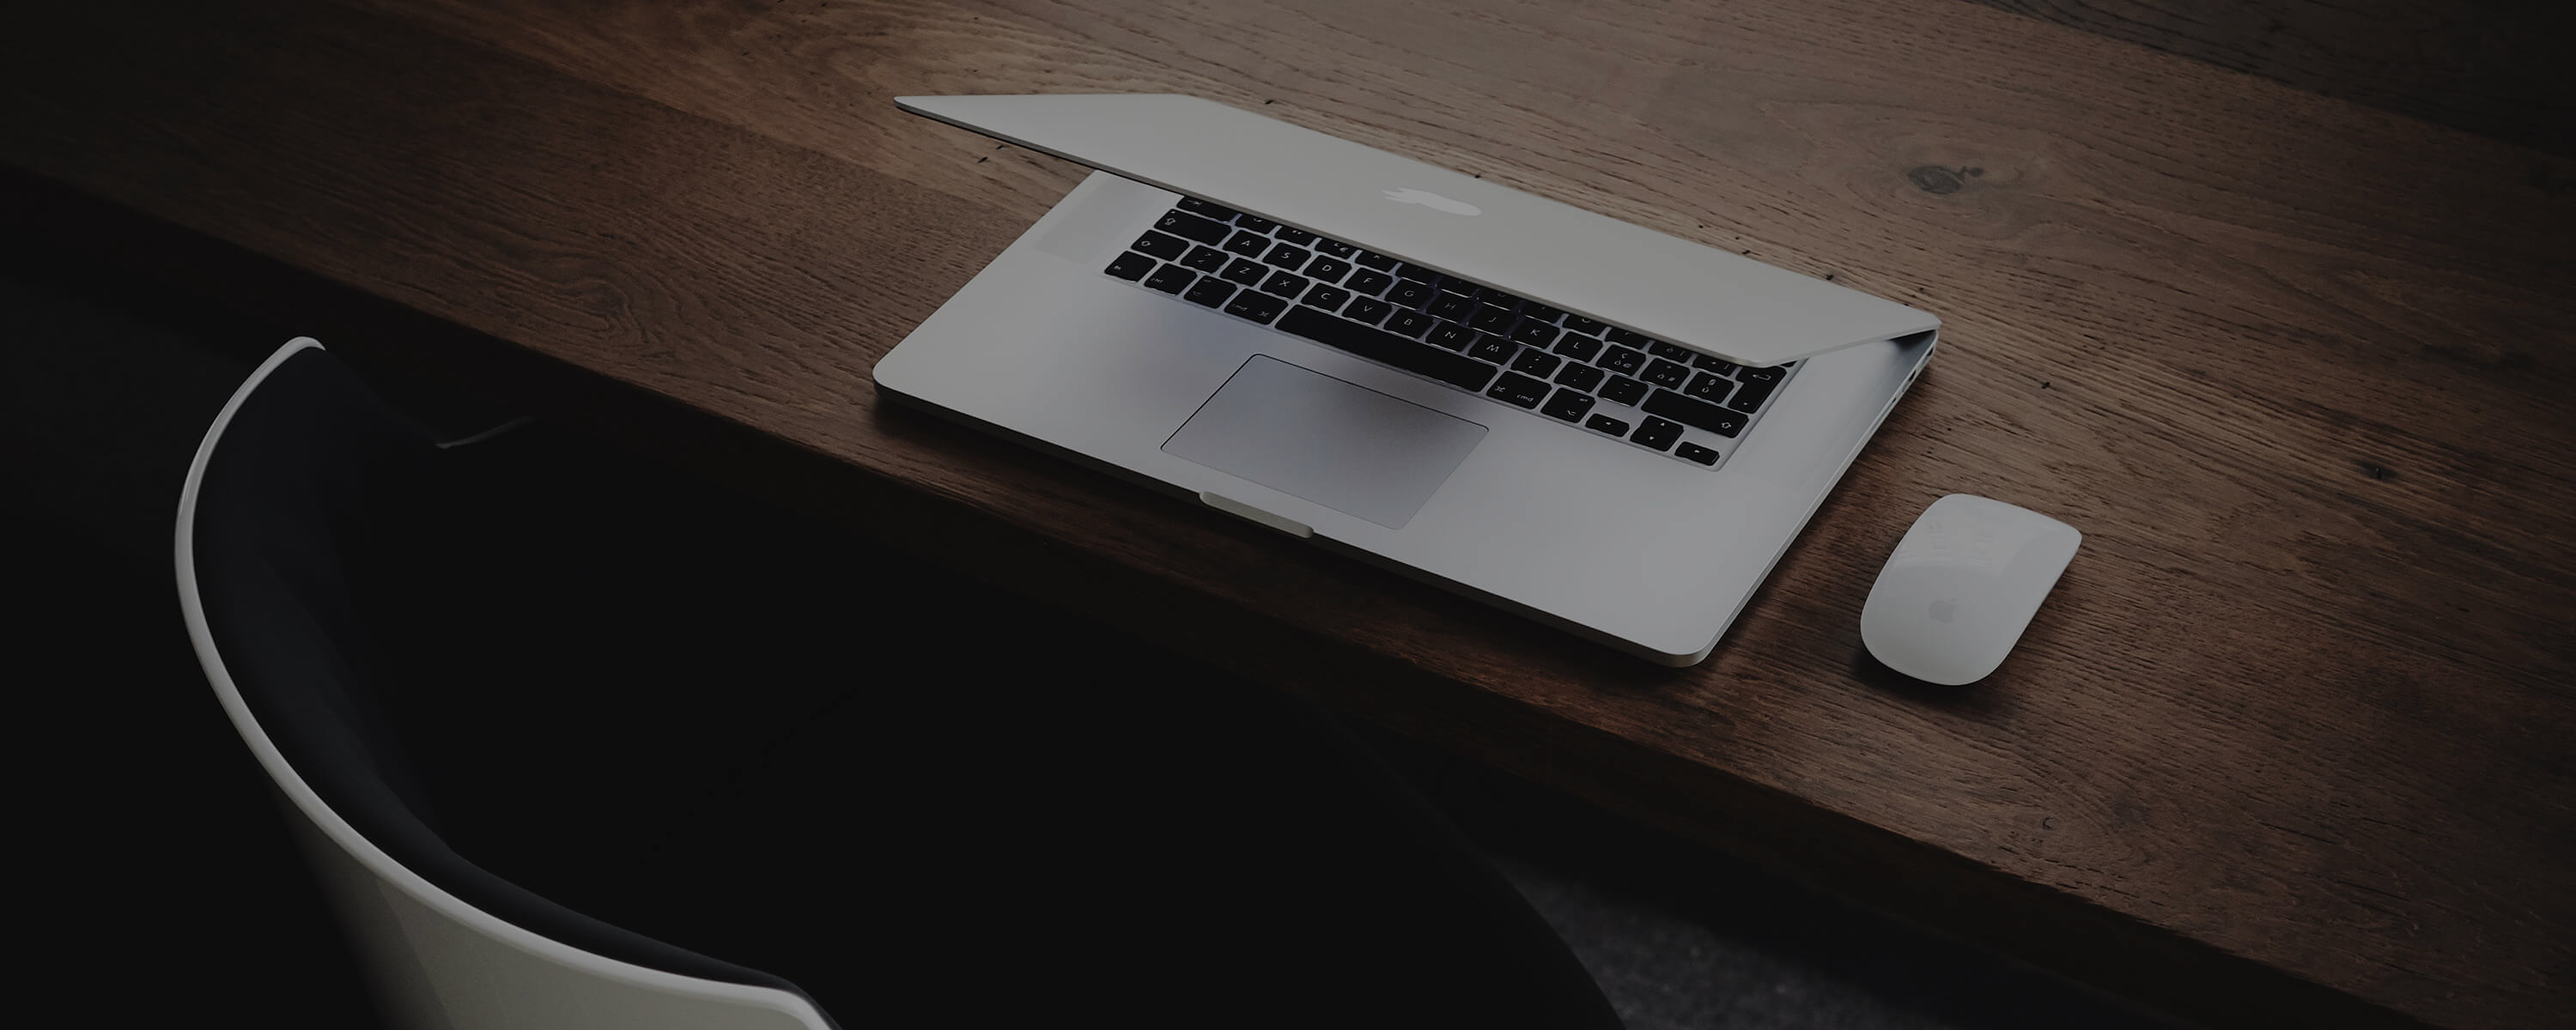
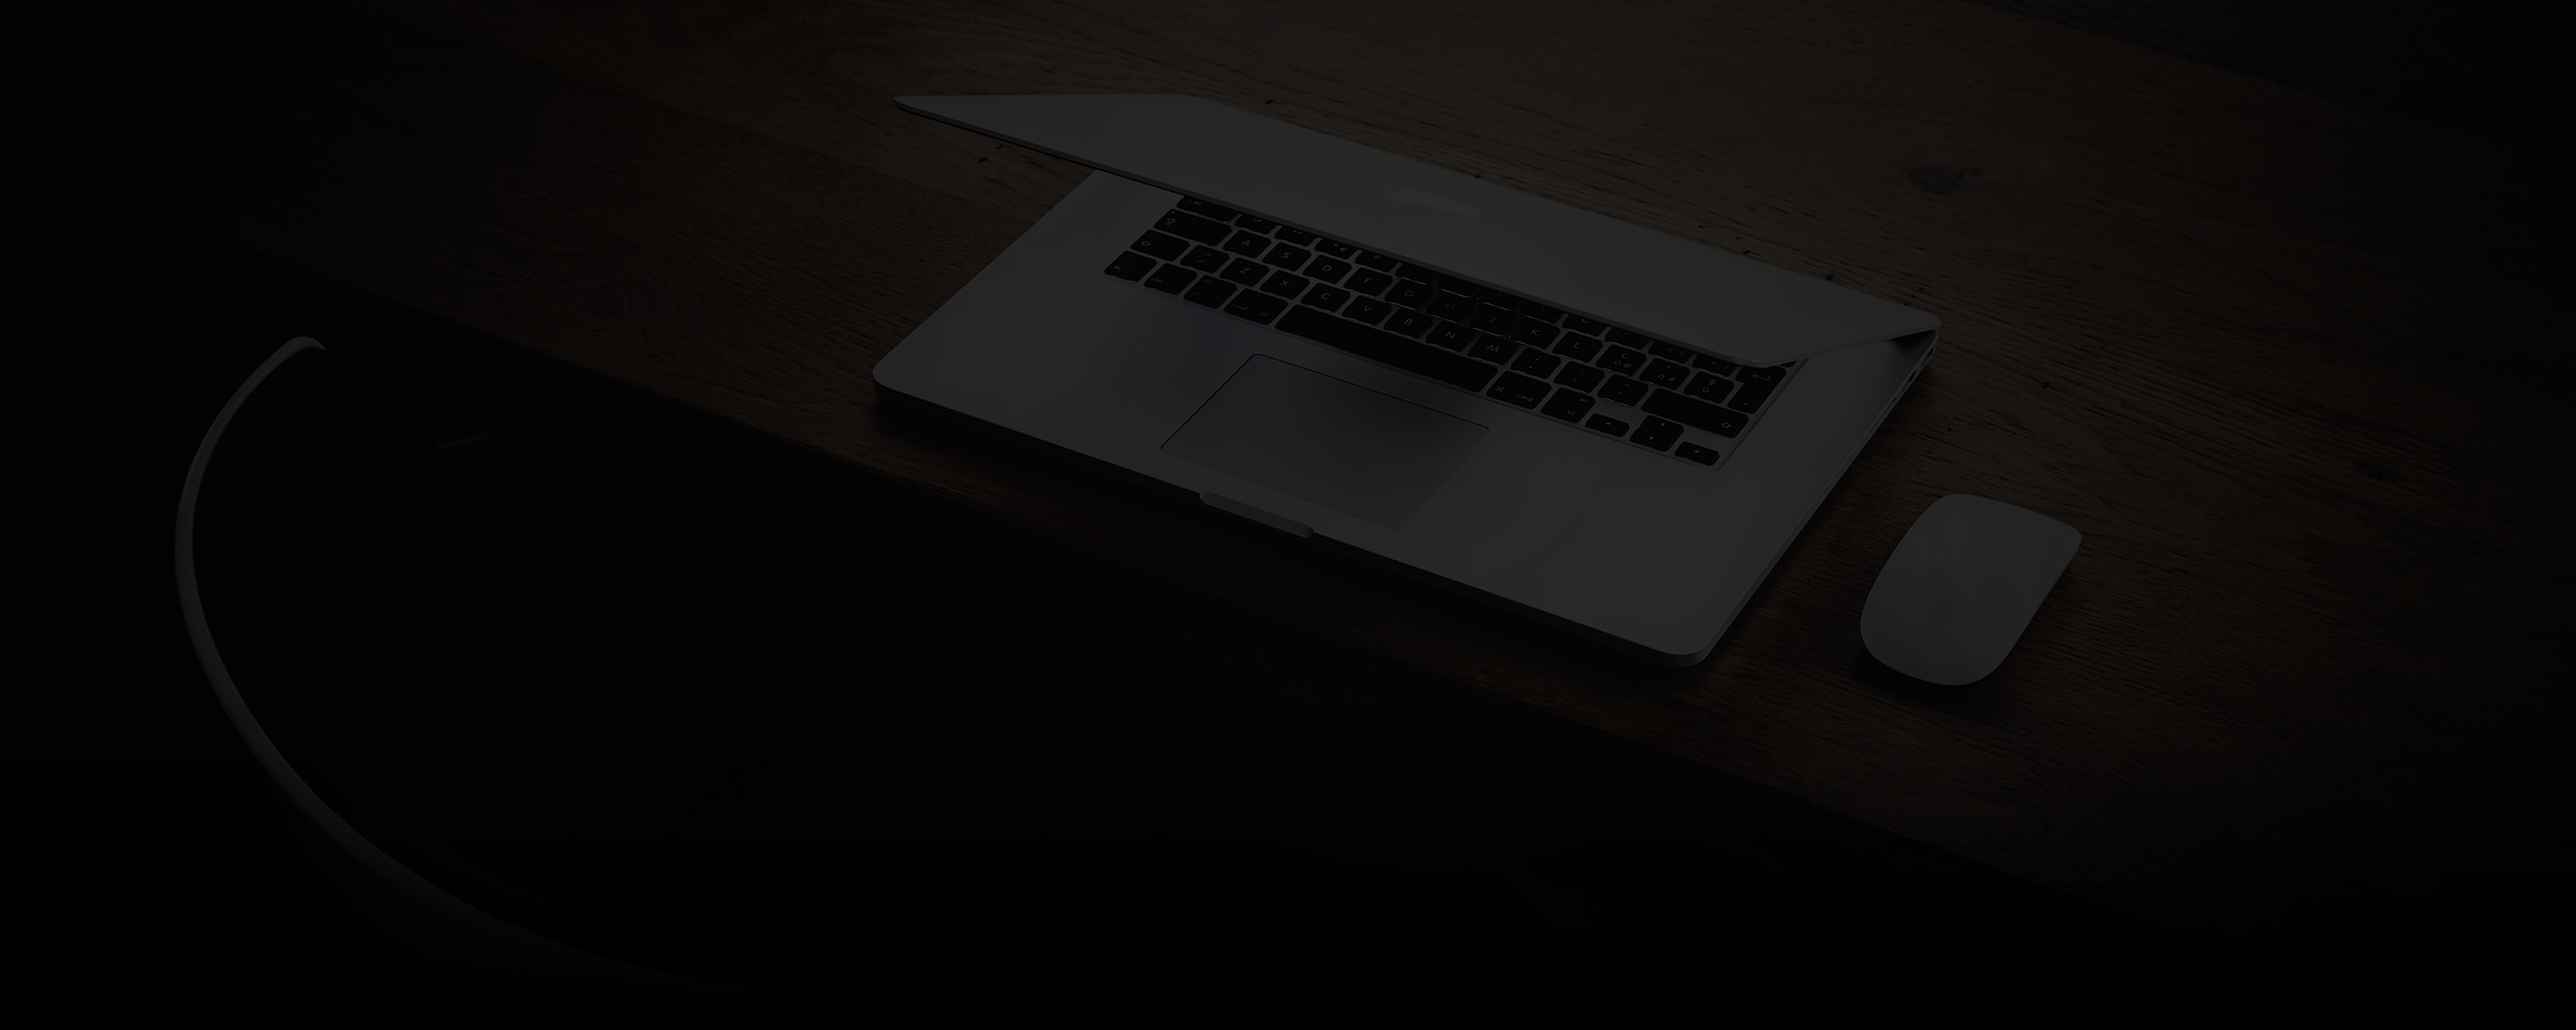
more styling to index page

diff --git a/public/styles/styles.css b/public/styles/styles.css
@@ -1,3 +1,63 @@
+/* Add a black background color to the top navigation */
+.topnav {
+  background-color: #333;
+  overflow: hidden;
+}
+
+/* Style the links inside the navigation bar */
+.topnav a {
+  float: left;
+  display: block;
+  color: #f2f2f2;
+  text-align: center;
+  padding: 14px 16px;
+  text-decoration: none;
+  font-size: 17px;
+}
+
+/* Change the color of links on hover */
+.topnav a:hover {
+  background-color: #ddd;
+  color: black;
+}
+
+/* Add an active class to highlight the current page */
+.active {
+  background-color: #4CAF50;
+  color: white;
+}
+
+/* Hide the link that should open and close the topnav on small screens */
+.topnav .icon {
+  display: none;
+}
+
+/* When the screen is less than 600 pixels wide, hide all links, except for the first one ("Home"). Show the link that contains should open and close the topnav (.icon) */
+@media screen and (max-width: 600px) {
+  .topnav a:not(:first-child) {display: none;}
+  .topnav a.icon {
+    float: right;
+    display: block;
+  }
+}
+
+/* The "responsive" class is added to the topnav with JavaScript when the user clicks on the icon. This class makes the topnav look good on small screens (display the links vertically instead of horizontally) */
+@media screen and (max-width: 600px) {
+  .topnav.responsive {position: relative;}
+  .topnav.responsive a.icon {
+    position: absolute;
+    right: 0;
+    top: 0;
+  }
+  .topnav.responsive a {
+    float: none;
+    display: block;
+    text-align: left;
+  }
+}
+
+
+
 /* LOGIN PAGE */
 html {
   height: 100%;
@@ -32,24 +92,47 @@ body, html {
   background-position: top;
 }
 
-.btn { 
-  font-weight: 700;
-  height: 36px;
+/* Button */
+.btn {
+  display: inline-block;
+  font-family: "Nunito Sans", sans-serif;
+  font-weight: 600;
+  font-size: 17px;
+  text-transform: uppercase;
+  letter-spacing: 2px;
+  padding: 5px 14px 10px;
+  color: #000000;
+  text-align: center;
+  cursor: pointer;
+  -webkit-transition: all 0.3s ease-in-out;
+  transition: all 0.3s ease-in-out;
+  background-color: #b8b8b8;
+  border: .2rem solid #b8b8b8;
 }
 
 #addButton { 
-  font-weight: 400;
+  font-weight: 600;
   font-size: 13px;
   letter-spacing: 0px;
+  padding: 3px;
 }
 
-.logoButtons {
-  width: 100px;
+#loginButton{
+  font-weight: 500;
+  font-size: 10px;
+  background-color: #e50914;
+  border-color: #e50914;
+  color: white;
+  padding: 2px 2px;
 }
 
-#logoButtons {
-  width: 100px;
+.btn:hover {
+  background-color: #e50914;
+  border-color: #e50914;
+  color: #000000;
 }
+
+/* Card */
 
 .card { 
   max-width: 500px;
@@ -63,9 +146,16 @@ body, html {
   border-radius: 5px; /* 5px rounded corners */
 }
 
+.card-img-top{
+  padding-top: 10px;
+  border: solid white 1px;
+  margin-bottom: 5px;
+}
+
 .card-text {
   font-size: 16px;
-  color: white;
+  font-weight: 700;
+  color: red;
 }
 
 .card-title {
@@ -80,9 +170,8 @@ body, html {
 }
 
 .results {
-  background-color: black;
+  background-image: url("/images/sectiongradient.png");
 }
-
 
 #inputEmail { 
   line-height: 2;
@@ -100,19 +189,12 @@ body, html {
   box-sizing: border-box;
 }
 
-.btn-signin { 
-  font-weight: 700;
-  font-size: 17px;
-  height: 40px;
-  border-radius: 3px;
-  border: none;
-}
-
 /* header logo  */
 
 #navIcon { 
   font-size: 45px;
 }
+
 #closeButton { 
   padding: 20px;
   font-size: 80px;
@@ -182,17 +264,6 @@ width: 80px;
    margin: auto;
 }
 
-/* contact social */
-.contact-social {
-  display: inline-block;
-  font-size: 45px;
-  margin-bottom: 5px;
-}
-
-.contact-social li {
-  display: inline-block;
-}
-
 /* NEW */
 
 body,
@@ -211,7 +282,7 @@ body {
 }
 
 hr.light {
-  border-color: #fff;
+  border-color: #2e2d35;
   height: 1px;
 }
 
@@ -235,29 +306,6 @@ h6 {
   font-family: "Nunito Sans", sans-serif;
 }
 
-.btn {
-  display: inline-block;
-  font-family: "Nunito Sans", sans-serif;
-  font-weight: 500;
-  font-size: 14px;
-  text-transform: uppercase;
-  letter-spacing: 2px;
-  padding: 8px 18px;
-  color: #000000;
-  text-align: center;
-  cursor: pointer;
-  -webkit-transition: all 0.3s ease-in-out;
-  transition: all 0.3s ease-in-out;
-  background-color: #b8b8b8;
-  border: .2rem solid #b8b8b8;
-}
-
-.btn:hover {
-  background-color: #e50914;
-  border-color: #e50914;
-  color: #000000;
-}
-
 .bg-primary {
   background-color: #e50914 !important;
 }
@@ -268,8 +316,10 @@ h6 {
 
 .text-faded {
   color: rgba(255, 255, 255, 0.7);
-  font-size: 24px;
-  font-weight: 100;
+  font-size: 26px;
+  letter-spacing: 1px;
+  font-weight: 200;
+  font-family: 'Oswald', sans-serif;
 }
 
 section {
@@ -385,9 +435,9 @@ img::-moz-selection {
 
 header.masthead {
   padding-top: 10rem;
+  height: 900px;
   background-color: black;
   margin-bottom: 0px;
-  background-image: url("/public/images/hero-bg-Small.png");
   background-position: center center;
   -webkit-background-size: cover;
   -moz-background-size: cover;
@@ -395,6 +445,10 @@ header.masthead {
   background-size: cover;
 }
 
+.masthead {
+  height: 700px;
+  background-image: url("/images/hero-bg-Small-dark.png")
+}
 
 header.masthead hr {
   margin-top: 30px;
@@ -437,69 +491,6 @@ header.masthead p {
   max-width: 400px;
 }
 
-.portfolio-box {
-  position: relative;
-  display: block;
-  max-width: 650px;
-  margin: 0 auto;
-}
-
-.portfolio-box .portfolio-box-caption {
-  position: absolute;
-  bottom: 0;
-  display: block;
-  width: 100%;
-  height: 100%;
-  text-align: center;
-  opacity: 0;
-  color: #fff;
-  background: rgba(240, 95, 64, 0.9);
-  -webkit-transition: all 0.2s;
-  -moz-transition: all 0.2s;
-  transition: all 0.2s;
-}
-
-.portfolio-box .portfolio-box-caption .portfolio-box-caption-content {
-  position: absolute;
-  top: 50%;
-  width: 100%;
-  transform: translateY(-50%);
-  text-align: center;
-}
-
-.portfolio-box .portfolio-box-caption .portfolio-box-caption-content .project-category,
-.portfolio-box .portfolio-box-caption .portfolio-box-caption-content .project-name {
-  padding: 0 15px;
-  font-family: 'Open Sans', 'Helvetica Neue', Arial, sans-serif;
-}
-
-.portfolio-box .portfolio-box-caption .portfolio-box-caption-content .project-category {
-  font-size: 14px;
-  font-weight: 600;
-  text-transform: uppercase;
-}
-
-.portfolio-box .portfolio-box-caption .portfolio-box-caption-content .project-name {
-  font-size: 18px;
-}
-
-.portfolio-box:hover .portfolio-box-caption {
-  opacity: 1;
-}
-
-.portfolio-box:focus {
-  outline: none;
-}
-
-@media (min-width: 768px) {
-  .portfolio-box .portfolio-box-caption .portfolio-box-caption-content .project-category {
-    font-size: 16px;
-  }
-  .portfolio-box .portfolio-box-caption .portfolio-box-caption-content .project-name {
-    font-size: 22px;
-  }
-}
-
 .text-primary {
   color: #F05F40 !important;
 }
@@ -513,6 +504,11 @@ footer {
 
 #icon{
   color:white;
+}
+
+.form-control {
+  height: 40px;
+  font-size: 1.5rem;
 }
 
 .copyright{

diff --git a/public/js/index.js b/public/js/index.js
@@ -19,7 +19,7 @@ $(document).ready(function () {
         var cardDeckDiv = $("<div class='card-deck'>");
         var resultDiv = $("<div class='card mx-auto' style='width:175px'>");
 
-        var resultImage = $("<img class='card-img-top'>");
+        var resultImage = $("<img class='card-img-top'>"); 
           resultImage.attr("src", image);
 
         var resultBody = $("<div class='card-body'>");
@@ -58,7 +58,7 @@ $(document).ready(function () {
             var divContainer = $("#resultsContainer");
 
 
-            var resultDiv = $("<div class='card mx-auto' style='width:175px'>");
+            var resultDiv = $("<div class='card' style='width:175px'>");
 
             var resultBody = $("<div class='card-body'>");
             var resultImage = $("<img class='card-img-top'>");
